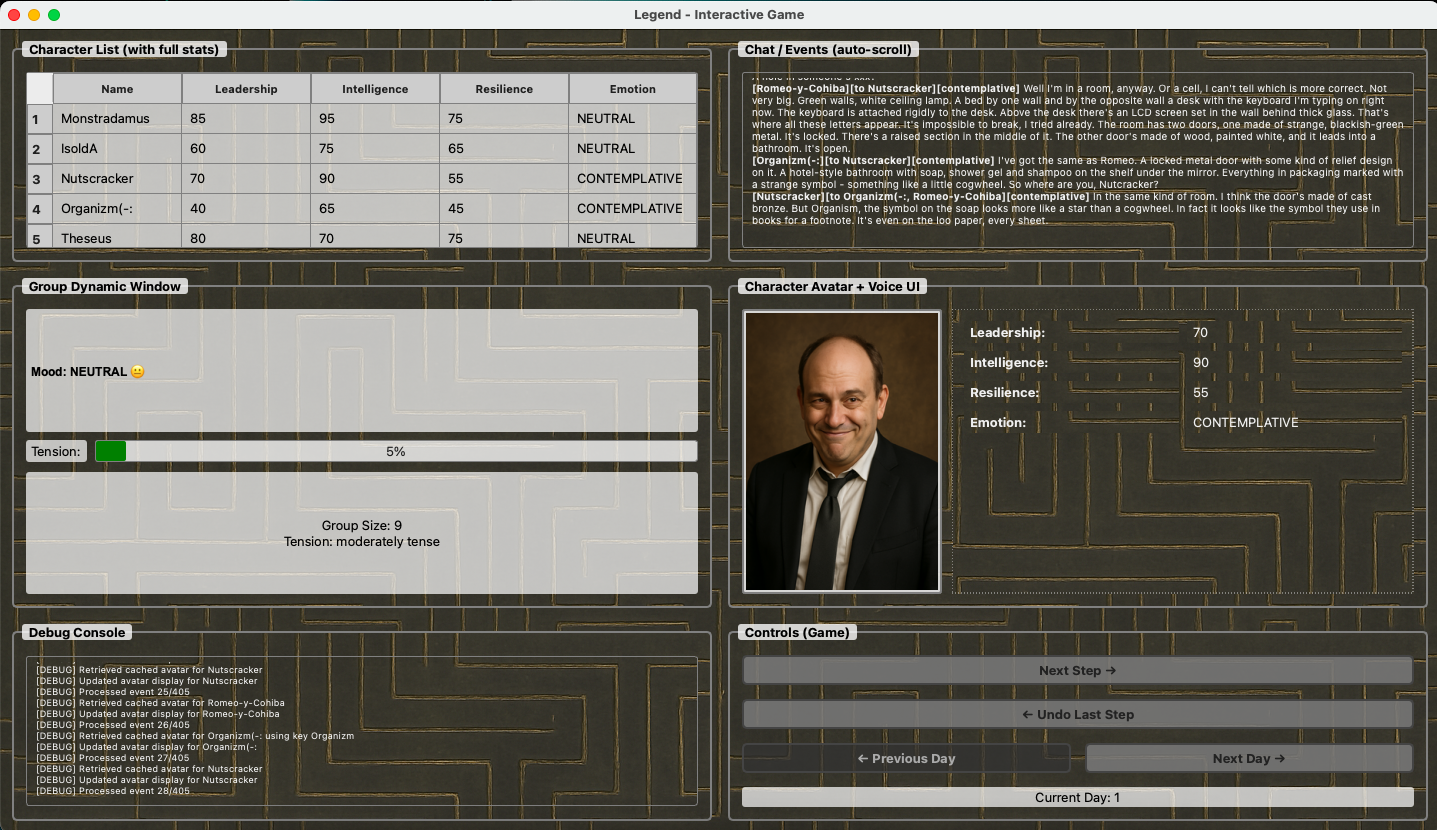
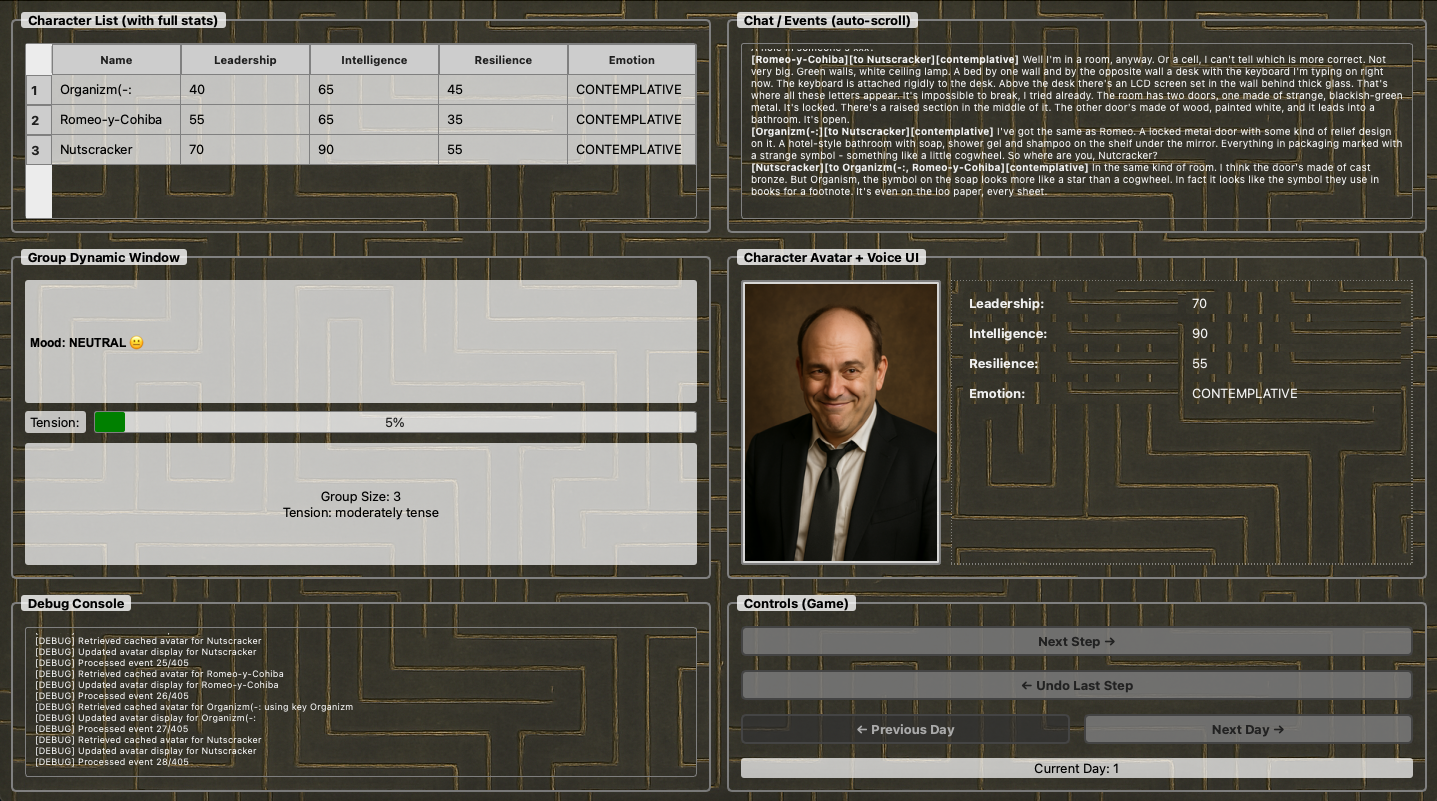
Update documenting the project

diff --git a/gui_game.py b/gui_game.py
@@ -409,10 +409,9 @@ class GameGUI(QMainWindow):
             self.current_events = self.game.load_day(day_file)
             self.current_event_index = 0
 
-            # Reset game state
+            # Reset game state with an empty group
+            # Characters will be added to the group only when they enter the chat through ENTER events
             self.game.group = Group()
-            for character in self.game.characters.values():
-                self.game.group.add(character)
 
             # Initialize avatar with Labyrinth.png by default
             self.load_labyrinth_avatar()
@@ -493,10 +492,9 @@ class GameGUI(QMainWindow):
 
     def reload_day_to_index(self):
         """Reload the current day and replay events up to the current index."""
-        # Reset game state
+        # Reset game state with an empty group
+        # Characters will be added to the group only when they enter the chat through ENTER events
         self.game.group = Group()
-        for character in self.game.characters.values():
-            self.game.group.add(character)
 
         # Clear chat
         self.chat_text.clear()
@@ -692,6 +690,9 @@ class GameGUI(QMainWindow):
             """)
 
             # Update trust matrix (simplified)
+            # Display the total number of characters in the group
+            # This counts all characters that have entered the chat, regardless of whether they have
+            # active chatbots or user controls
             trust_info = f"Group Size: {len(self.game.group.members)}\n"
             trust_info += f"Tension: {self.game.group.get_tension_description()}"
             self.trust_label.setText(trust_info)
